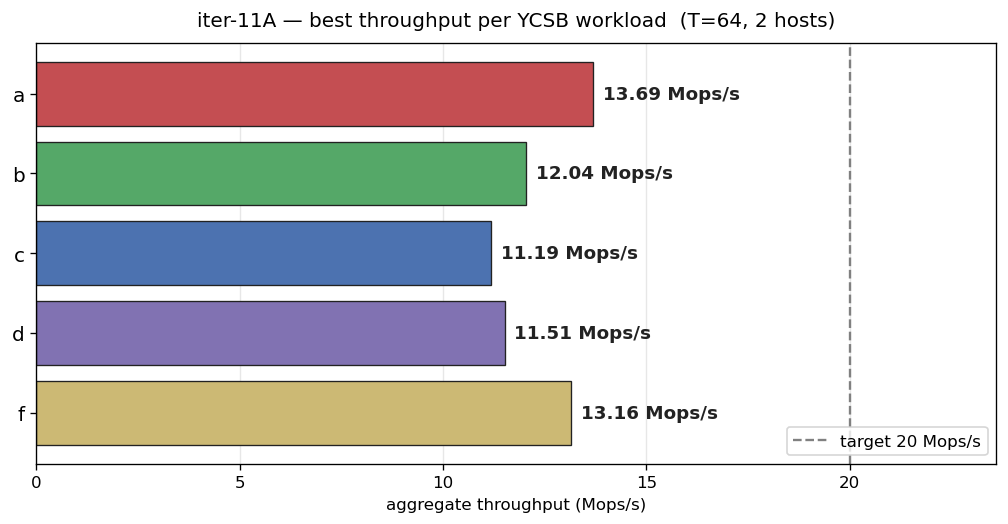
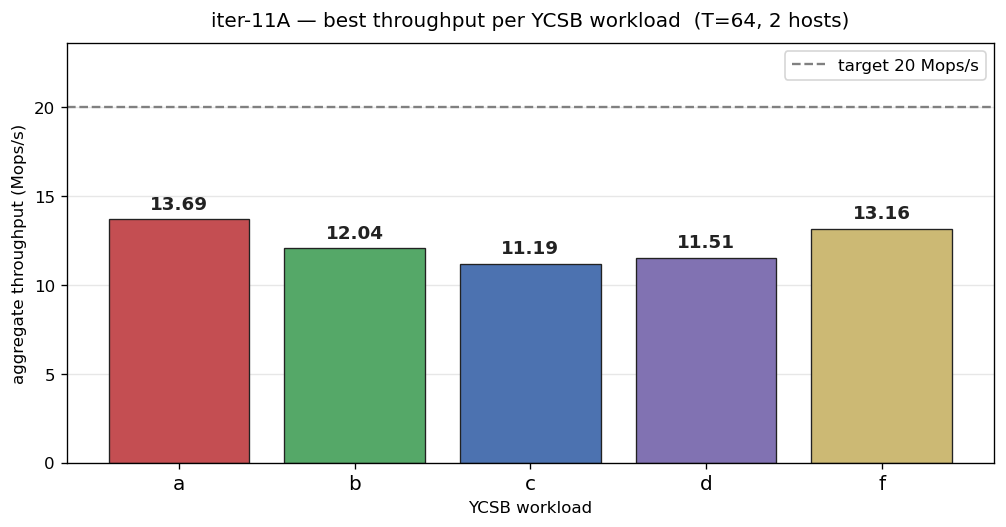
[iter11A-P6][plots] Best-per-workload bars flipped to vertical (x=workload, y=metric)
Swap axes on both summary bar charts per request — supervisor
prefers x-axis = YCSB workload (a/b/c/d/f), y-axis = the metric
(Mops/s or µs). Same data + colour palette as before
(seaborn-deep per-workload for throughput; red+blue grouped for
write/read latency).

A_best_thpt_per_workload.png — vertical bar per workload, value
   annotated above each bar, 20-Mops/s target line shown as
   horizontal grey dashed reference.

A_best_lat_per_workload.png — grouped vertical bars (write avg red
   + read avg blue) per workload, with workload-c's write column
   showing italic "no writes" label at the baseline.

diff --git a/scripts/plot_iter11A_best_per_workload.py b/scripts/plot_iter11A_best_per_workload.py
@@ -77,38 +77,38 @@ def best_per_workload(rows):
 
 
 def plot_thpt(best, out_path):
-    """Horizontal bar chart, single bar per workload."""
+    """Vertical bar chart: x=workload, y=throughput (Mops/s)."""
     fig, ax = plt.subplots(figsize=(8.5, 4.5))
     wls = WORKLOADS  # fixed order a,b,c,d,f
     values = [best[wl]["agg_mops"] for wl in wls]
     colours = [COLORS[wl] for wl in wls]
     labels = [wl.replace("workload", "") for wl in wls]  # a / b / c / d / f
 
-    # y position top-to-bottom in workload order
-    y_pos = list(range(len(wls)))[::-1]
-    bars = ax.barh(y_pos, values, color=colours,
-                   edgecolor=STYLE_B_EDGE, linewidth=STYLE_B_EDGE_LW)
-    ax.set_yticks(y_pos)
-    ax.set_yticklabels(labels, fontsize=12)
-    ax.set_xlabel("aggregate throughput (Mops/s)")
+    x_pos = list(range(len(wls)))
+    bars = ax.bar(x_pos, values, color=colours,
+                  edgecolor=STYLE_B_EDGE, linewidth=STYLE_B_EDGE_LW)
+    ax.set_xticks(x_pos)
+    ax.set_xticklabels(labels, fontsize=12)
+    ax.set_xlabel("YCSB workload")
+    ax.set_ylabel("aggregate throughput (Mops/s)")
     ax.set_title("iter-11A — best throughput per YCSB workload  (T=64, 2 hosts)",
                  pad=10)
 
     # 20 Mops/s target reference line
-    ax.axvline(x=TARGET_MOPS, color=STYLE_B_TARGET, linestyle="--",
+    ax.axhline(y=TARGET_MOPS, color=STYLE_B_TARGET, linestyle="--",
                linewidth=1.4, label=f"target {TARGET_MOPS:.0f} Mops/s")
 
-    # Bar-end value annotations
-    xmax = max(values + [TARGET_MOPS]) * 1.18
-    ax.set_xlim(0, xmax)
-    for y, v in zip(y_pos, values):
-        ax.text(v + xmax * 0.01, y, f"{v:.2f} Mops/s",
-                va="center", ha="left", fontsize=11, fontweight="bold",
+    # Bar-top value annotations
+    ymax = max(values + [TARGET_MOPS]) * 1.18
+    ax.set_ylim(0, ymax)
+    for x, v in zip(x_pos, values):
+        ax.text(x, v + ymax * 0.015, f"{v:.2f}",
+                va="bottom", ha="center", fontsize=11, fontweight="bold",
                 color="#222222")
 
-    ax.grid(axis="x", alpha=0.3)
+    ax.grid(axis="y", alpha=0.3)
     ax.set_axisbelow(True)
-    ax.legend(loc="lower right", fontsize=10)
+    ax.legend(loc="upper right", fontsize=10)
     fig.tight_layout()
     fig.savefig(out_path, dpi=120)
     plt.close(fig)
@@ -116,59 +116,58 @@ def plot_thpt(best, out_path):
 
 
 def plot_lat(best, out_path):
-    """Horizontal grouped bar chart per workload: write_avg + read_avg µs."""
+    """Vertical grouped bar chart: x=workload, y=latency (write_avg + read_avg µs)."""
     fig, ax = plt.subplots(figsize=(8.5, 4.5))
     wls = WORKLOADS
     labels = [wl.replace("workload", "") for wl in wls]
-    bar_h = 0.36
+    bar_w = 0.36
 
-    # workload-c has no writes → write_avg == 0; we still plot the read
-    # bar at its row but suppress the (empty) write bar.
     w_vals = [best[wl]["w_avg_us"] for wl in wls]
     r_vals = [best[wl]["r_avg_us"] for wl in wls]
 
-    # Two-colour palette from plot_style.py SEABORN_DEEP
-    WRITE_C = "#c44e52"  # red — write (focal, since A's write is dominant)
+    WRITE_C = "#c44e52"  # red — write
     READ_C  = "#4c72b0"  # blue — read
 
-    y_centre = list(range(len(wls)))[::-1]
-    y_write  = [y + bar_h / 2.0 for y in y_centre]
-    y_read   = [y - bar_h / 2.0 for y in y_centre]
+    x_centre = list(range(len(wls)))
+    x_write  = [x - bar_w / 2.0 for x in x_centre]
+    x_read   = [x + bar_w / 2.0 for x in x_centre]
 
-    bars_w = ax.barh(y_write, w_vals, height=bar_h, color=WRITE_C,
-                     edgecolor=STYLE_B_EDGE, linewidth=STYLE_B_EDGE_LW,
-                     label="write avg")
-    bars_r = ax.barh(y_read,  r_vals, height=bar_h, color=READ_C,
-                     edgecolor=STYLE_B_EDGE, linewidth=STYLE_B_EDGE_LW,
-                     label="read avg")
+    bars_w = ax.bar(x_write, w_vals, width=bar_w, color=WRITE_C,
+                    edgecolor=STYLE_B_EDGE, linewidth=STYLE_B_EDGE_LW,
+                    label="write avg")
+    bars_r = ax.bar(x_read,  r_vals, width=bar_w, color=READ_C,
+                    edgecolor=STYLE_B_EDGE, linewidth=STYLE_B_EDGE_LW,
+                    label="read avg")
 
-    ax.set_yticks(y_centre)
-    ax.set_yticklabels(labels, fontsize=12)
-    ax.set_xlabel("per-op latency (µs)")
+    ax.set_xticks(x_centre)
+    ax.set_xticklabels(labels, fontsize=12)
+    ax.set_xlabel("YCSB workload")
+    ax.set_ylabel("per-op latency (µs)")
     ax.set_title("iter-11A — latency at the best-throughput cell  "
                  "(T=64, 2 hosts)", pad=10)
 
-    xmax = max(w_vals + r_vals) * 1.18
-    ax.set_xlim(0, xmax)
+    ymax = max(w_vals + r_vals) * 1.22
+    ax.set_ylim(0, ymax)
 
-    # Bar-end annotations
-    for y, v in zip(y_write, w_vals):
+    # Bar-top annotations
+    for x, v in zip(x_write, w_vals):
         if v > 0:
-            ax.text(v + xmax * 0.01, y, f"{v:.1f} µs",
-                    va="center", ha="left", fontsize=9.5,
+            ax.text(x, v + ymax * 0.015, f"{v:.1f}",
+                    va="bottom", ha="center", fontsize=9.5,
                     fontweight="bold", color=WRITE_C)
         else:
-            ax.text(0.1, y, "no writes (workload-c)",
-                    va="center", ha="left", fontsize=9, fontstyle="italic",
-                    color="#888888")
-    for y, v in zip(y_read, r_vals):
-        ax.text(v + xmax * 0.01, y, f"{v:.1f} µs",
-                va="center", ha="left", fontsize=9.5,
+            # workload-c: no writes — short inline annotation above the column
+            ax.text(x, ymax * 0.02, "no\nwrites",
+                    va="bottom", ha="center", fontsize=8.5,
+                    fontstyle="italic", color="#888888")
+    for x, v in zip(x_read, r_vals):
+        ax.text(x, v + ymax * 0.015, f"{v:.1f}",
+                va="bottom", ha="center", fontsize=9.5,
                 fontweight="bold", color=READ_C)
 
-    ax.grid(axis="x", alpha=0.3)
+    ax.grid(axis="y", alpha=0.3)
     ax.set_axisbelow(True)
-    ax.legend(loc="lower right", fontsize=10)
+    ax.legend(loc="upper right", fontsize=10)
     fig.tight_layout()
     fig.savefig(out_path, dpi=120)
     plt.close(fig)
